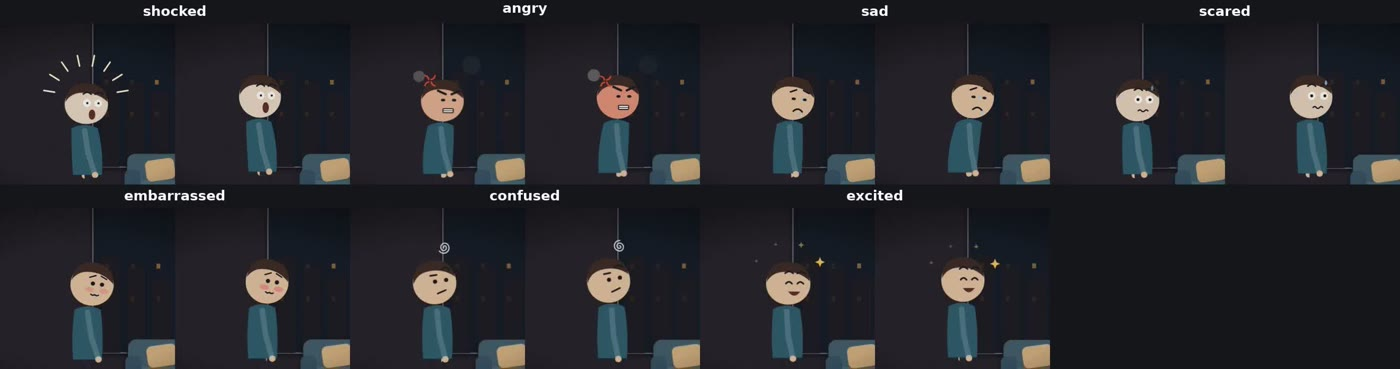
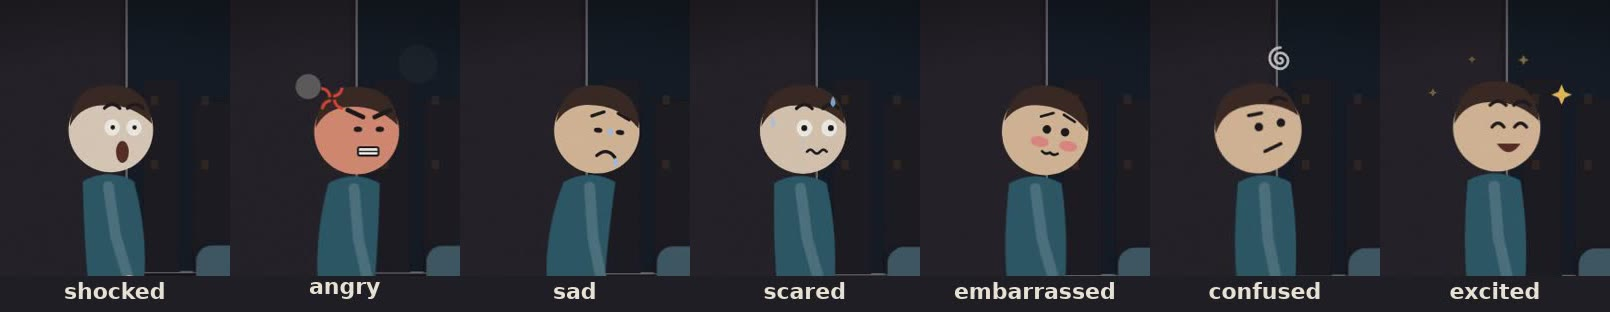
Landing page: close-up Coinwise feelings

diff --git a/index.html b/index.html
@@ -57,7 +57,7 @@ footer{margin-top:48px;padding-top:16px;border-top:1px solid var(--line);font-si
 
 <h2>How they feel</h2>
 <p>Characters act their feelings instead of just changing faces: a blink before the change, a reaction that settles, and the body joins in: a jolt when shocked, a slump when sad, a tremble when angry, a hop when excited.</p>
-<img class="sheet" src="img/coinwise_feelings.jpg" alt="Leo showing seven feelings: shocked, angry, sad, scared, embarrassed, confused, excited, each at its start and once settled" loading="lazy">
+<img class="sheet" src="img/coinwise_feelings.jpg" alt="Leo showing seven feelings: shocked, angry, sad, scared, embarrassed, confused, excited" loading="lazy">
 <img class="sheet" src="img/mind_sketch_feelings.jpg" alt="Mind Sketch characters showing twelve feelings from happy to excited" loading="lazy">
 
 <h2>What AutoTube does</h2>
